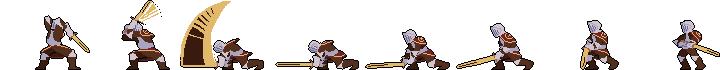
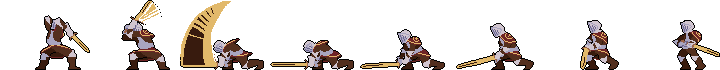
updated attack references and details

Changed region(s): [[0.3667, 0.4, 0.6417, 1.0]]

diff --git a/src/agents/knight.js b/src/agents/knight.js
@@ -94,10 +94,10 @@ function Knight(game, AM, x, y) {
         KNIGHT_SIZE.JUMP_WIDTH, KNIGHT_SIZE.JUMP_HEIGHT, KNIGHT_ANIM.FRAME_DURATION, true);
     KnightFallLeft.addFrame(KNIGHT_SIZE.JUMP_WIDTH, 0);
     
-    var KnightAttackRight = new Animation(AM.getAsset("./img/knight/knight attack draft.png"), 90, 64, 0.05, true);
-    KnightAttackRight.addFrameBatch(0, 0, 12);
-    var KnightAttackLeft = new Animation(AM.getAsset("./img/knight/knight attack draft flipped.png"), 90, 64, 0.05, true);
-    KnightAttackLeft.addFrameBatch(0, 0, 12);
+    var KnightAttackRight = new Animation(AM.getAsset("./img/knight/knight attack.png"), 90, 70, 0.085, true);
+    KnightAttackRight.addFrameBatch(0, 0, 8);
+    var KnightAttackLeft = new Animation(AM.getAsset("./img/knight/knight attack flipped.png"), 90, 70, 0.085, true);
+    KnightAttackLeft.addFrameBatch(0, 0, 8);
     
     this.entity.addAnimation(KnightRestRight);
     this.entity.addAnimation(KnightRestLeft);

diff --git a/src/main.js b/src/main.js
@@ -56,8 +56,8 @@ AM.queueDownload("./img/knight/knight standing.png");
 AM.queueDownload("./img/knight/knight jump flipped.png");
 AM.queueDownload("./img/knight/knight run flipped.png");
 AM.queueDownload("./img/knight/knight standing flipped.png");
-AM.queueDownload("./img/knight/knight attack draft.png");
-AM.queueDownload("./img/knight/knight attack draft flipped.png");
+AM.queueDownload("./img/knight/knight attack.png");
+AM.queueDownload("./img/knight/knight attack flipped.png");
 AM.queueDownload("./img/forest-stage/forest sky.png");
 AM.queueDownload("./img/forest-stage/forest trees.png");
 AM.queueDownload("./img/forest-stage/forest block.png");
@@ -100,7 +100,7 @@ AM.downloadAll(function () {
     //BGM.forestLevel.play();
     //BGM.castleLevel.play();
     //BGM.townBoss.play();
-    BGM.hellBossFinal.play();
+    //BGM.hellBossFinal.play();
 
     gameEngine.playerAgent = knight;
     gameEngine.cameraAgent = knight;
